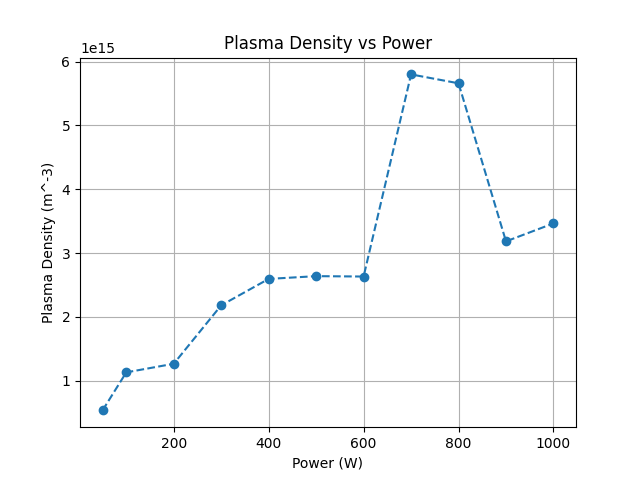
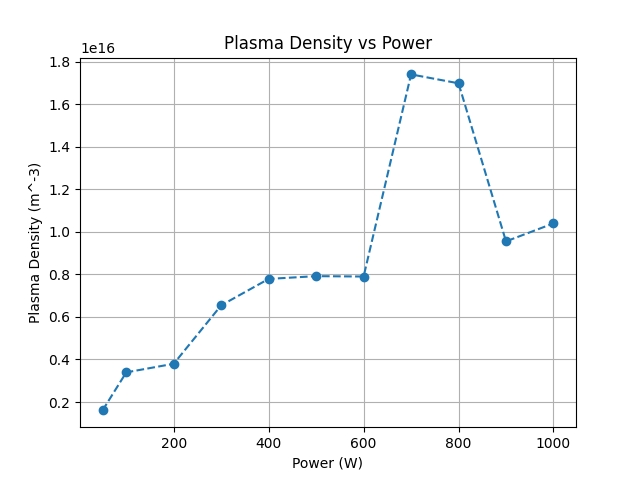
updated

diff --git a/IVTrace.py b/IVTrace.py
@@ -36,24 +36,30 @@ class IVTrace:
         self.vel_bohm = self.get_vel_bohm(self.temp_e_low)
         self.plasma_density = self.get_plasma_density(self.i_ion, self.probe, self.temp_e_low, self.type)
         self.v_plasma = self.get_v_plasma(self.v_float, self.temp_e_low)
-
-        self.eedf = self.get_eedf(self.ie, self.v_bias, self.v_float, self.v_plasma, self.probe)
-        # self.write_plasma(False, False)
+        self.delta_v = self.get_delta_v(self.v_bias, self.v_plasma)
+        self.eedf = self.get_eedf(self.ie, self.v_bias, self.v_float, self.v_plasma, self.delta_v, self.probe)
+        self.write_plasma()
     
-    def get_eedf(self, ie, v_bias, v_float, v_plasma, probe):
+    def get_delta_v(self, v_bias, v_plasma):
+        delta_v = [val for val in (v_plasma - v_bias) if (val >= 0 and val <= v_bias.max())]
+        return delta_v
+
+    def get_eedf(self, ie, v_bias, v_float, v_plasma, delta_v, probe):
         v_float_pos = self.get_nearest_pos(v_bias, v_float)
         v_plasma_pos = self.get_nearest_pos(v_bias, v_plasma)
 
-        delta_v = [val for val in (v_plasma - v_bias) if (val >= 0 and val <= v_bias.max())]
         sqrt_delta_v = np.sqrt(delta_v)
 
         poly = self.smooth_poly(v_bias, ie, 9)
         d2_ie = self.dn_poly(poly, delta_v, 2)
+        
         list = []
         for i in range(d2_ie.size):
-            val_SI = 2 * math.sqrt(2) * MASS_E_SI * sqrt_delta_v[i] * d2_ie[i] / (probe.area * CHARGE_E_SI**(3/2))
-            val_EV = val_SI * J_TO_EV
-            list.append(val_EV)
+            val = 2 * math.sqrt(2 * MASS_E_SI / CHARGE_E_SI**3) / probe.area
+            print('{:e}'.format(val))
+            val = val * sqrt_delta_v[i] * d2_ie[i]
+            list.append(val)
+
         eedf = np.array(list)
 
         # self.plot(delta_v, np.flip(eedf), "EEDF vs v_plasma - v_bias")
@@ -138,7 +144,7 @@ class IVTrace:
         if show:
             plt.show()
 
-    def write_plasma(self, write_data=True, write_graphs=True):
+    def write_plasma(self, write_data=True, write_figs=True):
         lines = [
             f'Plasma Type: {self.type}',
             f'Probe Length: {self.probe.length} m',
@@ -164,7 +170,7 @@ class IVTrace:
             with open(path, 'w') as file:
                 file.write('\n'.join(lines))
 
-        if write_graphs:
+        if write_figs:
             self.plot(self.v_bias, self.i, f'IV Trace {label}', show=False)
             plt.savefig(f'{path_output_IVTrace}/IVTrace_{label}.png')
             plt.clf()
@@ -172,3 +178,9 @@ class IVTrace:
             self.plot(self.v_bias, np.log(self.ie), f'ln(Electron Current) vs Bias Voltage {label}', show=False)
             plt.savefig(f'{path_output_IVTrace}/ln(ie)_{label}.png')
             plt.clf()
+
+            self.plot(self.delta_v, np.flip(self.eedf), f'EEDF {label}', show=False)
+            plt.savefig(f'{path_output_IVTrace}/eedf.png')
+            plt.clf()
+
+        

diff --git a/main.py b/main.py
@@ -13,7 +13,7 @@ from globals import *
 
 def main():
     plot_figs = True
-    probe = Probe(radius=0.0015, length=0.01)
+    probe = Probe(radius=0.5*10**(-3), length=0.01)
     pressure = 10
     power_vals = [50, 100, 200, 300, 400, 500, 600, 700, 800, 900, 1000]
     trace_vals = []

diff --git a/globals.py b/globals.py
@@ -8,7 +8,7 @@ H = 'Hydrogen'
 AR = 'Argon'
 N = 'Nitrogen'
 
-PI = 3.141592653589
+PI = 3.14159
 
 CHARGE_E_SI = 1.60218 * 10**(-19)
 KB_SI = 1.381 * 10**(-23)
